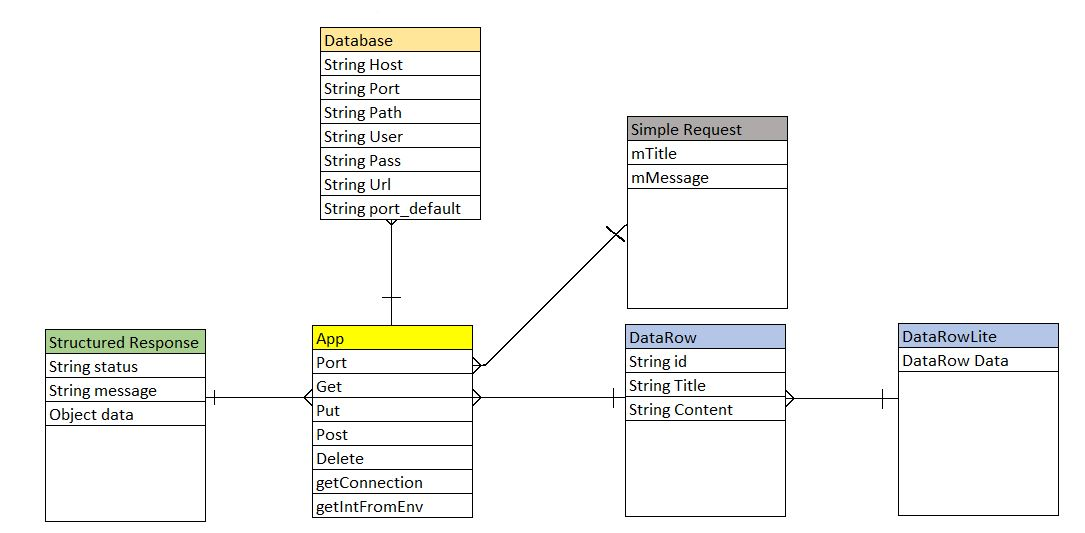
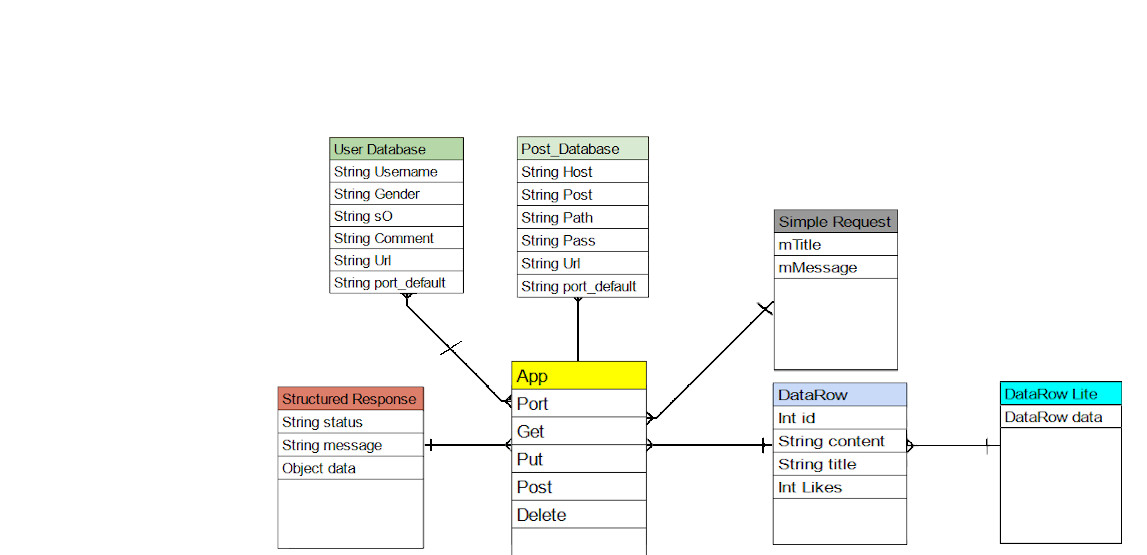
entity diagram

diff --git a/docs/diagrams/Post_Database.java b/docs/diagrams/Post_Database.java
@@ -1,0 +1,213 @@
+package edu.lehigh.cse216.ash320.admin;
+ 
+import java.sql.Connection;
+import java.sql.DriverManager;
+import java.sql.PreparedStatement;
+import java.sql.SQLException;
+
+
+public class Post_Database {
+    /**
+     * The connection to the database.  When there is no connection, it should
+     * be null.  Otherwise, there is a valid open connection
+     */
+    private Connection mConnection;
+
+    /**
+     * A prepared statement for deleting a row from the database
+     */
+    private PreparedStatement mDeleteOne;
+
+
+    /**
+     * A prepared statement for creating the table in our database
+     */
+    private PreparedStatement mCreateTable;
+
+    /**
+     * A prepared statement for dropping the table in our database
+     */
+    private PreparedStatement mDropTable;
+
+
+    /**
+     * RowData is like a struct in C: we use it to hold data, and we allow 
+     * direct access to its fields.  In the context of this Database, RowData 
+     * represents the data we'd see in a row.
+     * 
+     * We make RowData a static class of Database because we don't really want
+     * to encourage users to think of RowData as being anything other than an
+     * abstract representation of a row of the database.  RowData and the 
+     * Database are tightly coupled: if one changes, the other should too.
+     */
+    public static class RowData {
+        /**
+         * The ID of this row of the database
+         */
+        int mId;
+        /**
+         * The subject stored in this row
+         */
+        String mSubject;
+        /**
+         * The message stored in this row
+         */
+        String mMessage;
+
+        /**
+         * Stores number of likes a post has
+         */
+        int mLikes;
+
+        /**
+         * Construct a RowData object by providing values for its fields
+         */
+        public RowData(int id, String subject, String message, int likes) {
+            mId = id;
+            mSubject = subject;
+            if(message.length()<=2048){ //ensures correct length
+                mMessage = message;
+            }
+            else{ //shortens message if it is too large
+                mMessage = message.substring(0, Math.min(message.length(), 2048));
+            }
+            
+            mLikes=likes; //Set likes added to a rowData constructor
+        }
+    }
+
+    /**
+     * The Database constructor is private: we only create Database objects 
+     * through the getDatabase() method.
+     */
+    private Database() {
+    }
+
+    /**
+     * Get a fully-configured connection to the database
+     * 
+     * @param ip   The IP address of the database server
+     * @param port The port on the database server to which connection requests
+     *             should be sent
+     * @param user The user ID to use when connecting
+     * @param pass The password to use when connecting
+     * 
+     * @return A Database object, or null if we cannot connect properly
+     */
+    static Database getDatabase(String ip, String port, String user, String pass) {
+        // Create an un-configured Database object
+        Database db = new Database();
+
+        // Give the Database object a connection, fail if we cannot get one
+        try {
+            Connection conn = DriverManager.getConnection("jdbc:postgresql://" + ip + ":" + port + "/", user, pass);
+            if (conn == null) {
+                System.err.println("Error: DriverManager.getConnection() returned a null object");
+                return null;
+            }
+            db.mConnection = conn;
+        } catch (SQLException e) {
+            System.err.println("Error: DriverManager.getConnection() threw a SQLException");
+            e.printStackTrace();
+            return null;
+        }
+
+        // Attempt to create all of our prepared statements.  If any of these 
+        // fail, the whole getDatabase() call should fail
+        try {
+            // NB: we can easily get ourselves in trouble here by typing the
+            //     SQL incorrectly.  We really should have things like "tblData"
+            //     as constants, and then build the strings for the statements
+            //     from those constants.
+
+            // Note: no "IF NOT EXISTS" or "IF EXISTS" checks on table 
+            // creation/deletion, so multiple executions will cause an exception
+            db.mCreateTable = db.mConnection.prepareStatement(
+                    "CREATE TABLE tblData (id SERIAL PRIMARY KEY, subject VARCHAR(50) NOT NULL, message VARCHAR(2048) NOT NULL, likes int)"); //messages limited to 2048 characters and likes added as a table factor
+            db.mDropTable = db.mConnection.prepareStatement("DROP TABLE tblData");
+
+            // Standard CRUD operations
+            db.mDeleteOne = db.mConnection.prepareStatement("DELETE FROM tblData WHERE id = ?");
+            //IMPLIMENT IN BACKEND
+            /*db.mInsertOne = db.mConnection.prepareStatement("INSERT INTO tblData (id, subject, message, likes) VALUES (DEFAULT, ?, ?, ?)"); //prepared statement altered to inclues likes
+            db.mSelectAll = db.mConnection.prepareStatement("SELECT * FROM tblData");
+            db.mSelectOne = db.mConnection.prepareStatement("SELECT * FROM tblData WHERE id=?");
+            db.mUpdateOne = db.mConnection.prepareStatement("UPDATE tblData SET message = ? WHERE id = ?");
+            db.mLikeOne = db.mConnection.prepareStatement("UPDATE tblData SET likes = ? WHERE id = ?"); //New prepared statement to increment likes*/
+        } catch (SQLException e) {
+            System.err.println("Error creating prepared statement");
+            e.printStackTrace();
+            db.disconnect();
+            return null;
+        }
+        return db;
+    }
+
+    /**
+     * Close the current connection to the database, if one exists.
+     * 
+     * NB: The connection will always be null after this call, even if an 
+     *     error occurred during the closing operation.
+     * 
+     * @return True if the connection was cleanly closed, false otherwise
+     */
+    boolean disconnect() {
+        if (mConnection == null) { //No connection exists
+            System.err.println("Unable to close connection: Connection was null");
+            return false;
+        }
+        try {
+            mConnection.close();
+        } catch (SQLException e) { //SQL exception
+            System.err.println("Error: Connection.close() threw a SQLException");
+            e.printStackTrace();
+            mConnection = null;
+            return false;
+        }
+        mConnection = null;
+        return true;
+    }
+
+
+    /**
+     * Delete a row by ID
+     * 
+     * @param id The id of the row to delete
+     * 
+     * @return The number of rows that were deleted.  -1 indicates an error.
+     */
+    int deleteRow(int id) {
+        int res = -1;
+        try {
+            mDeleteOne.setInt(1, id);
+            res = mDeleteOne.executeUpdate();
+        } catch (SQLException e) {
+            e.printStackTrace();
+        }
+        return res;
+    }
+
+
+    /**
+     * Create tblData.  If it already exists, this will print an error
+     */
+    void createTable() {
+        try {
+            mCreateTable.execute();
+        } catch (SQLException e) {
+            e.printStackTrace();
+        }
+    }
+
+    /**
+     * Remove tblData from the database.  If it does not exist, this will print
+     * an error.
+     */
+    void dropTable() {
+        try {
+            mDropTable.execute();
+        } catch (SQLException e) {
+            e.printStackTrace();
+        }
+    }
+}
